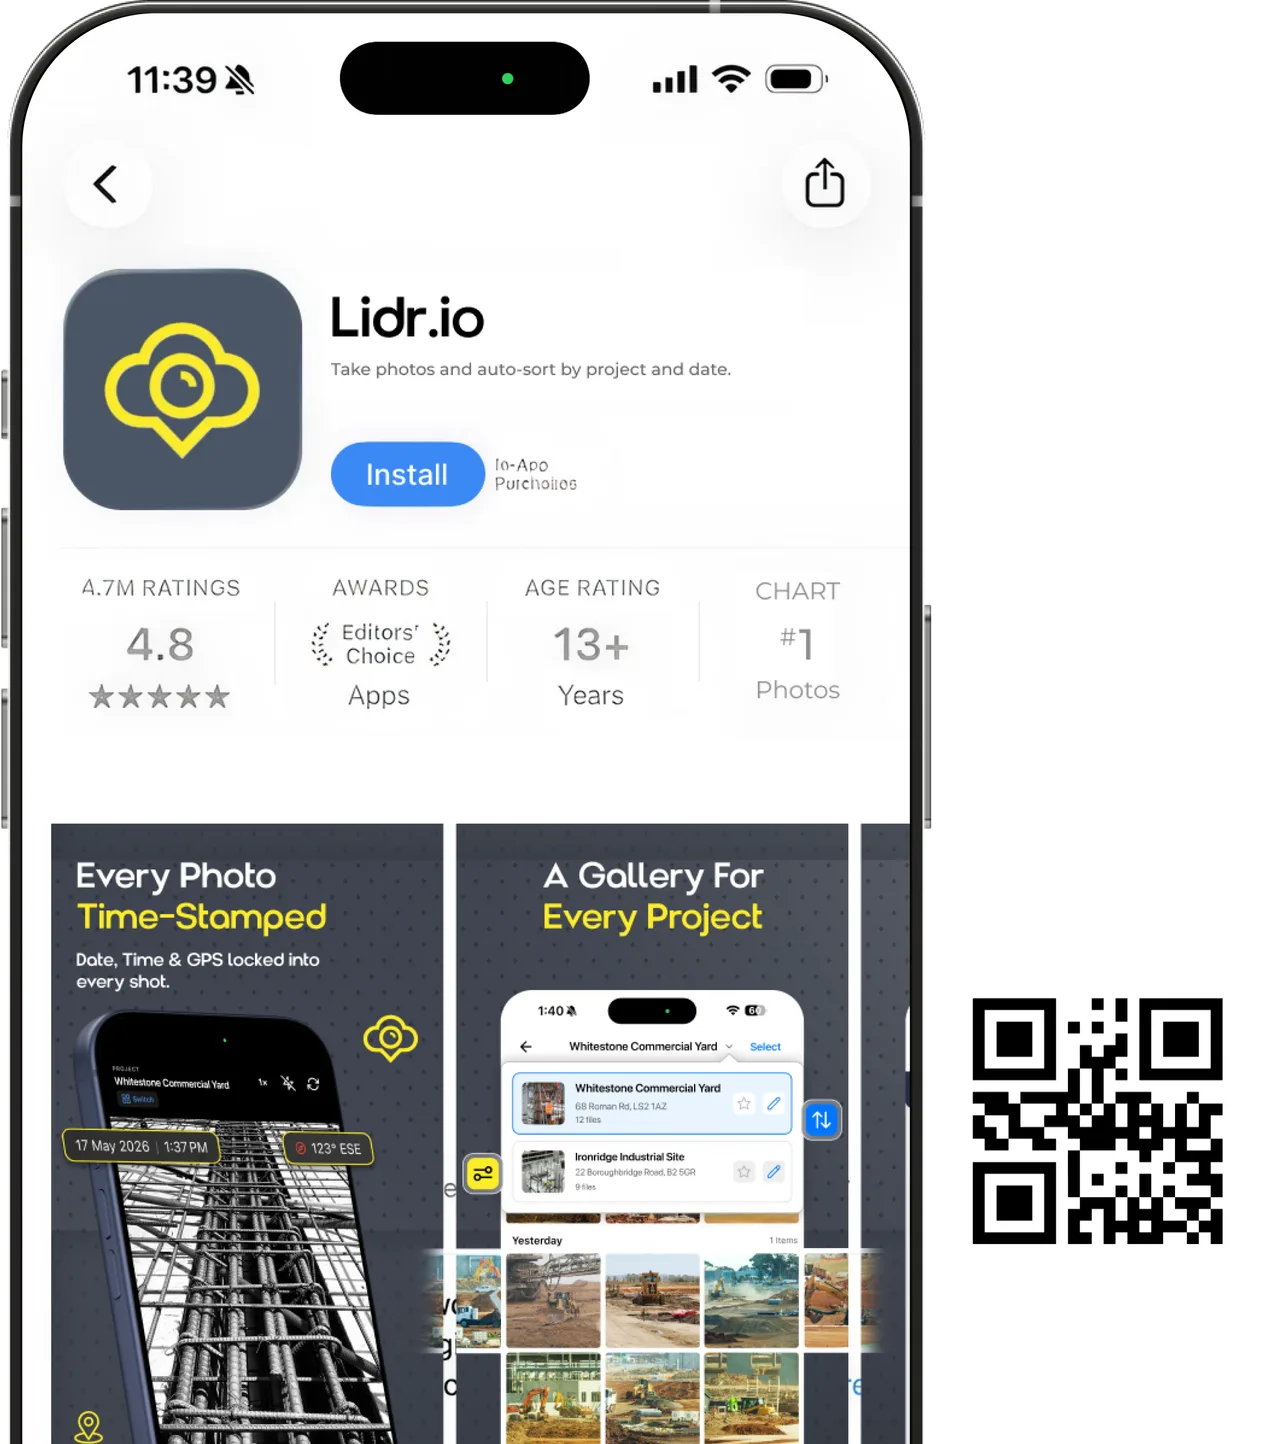
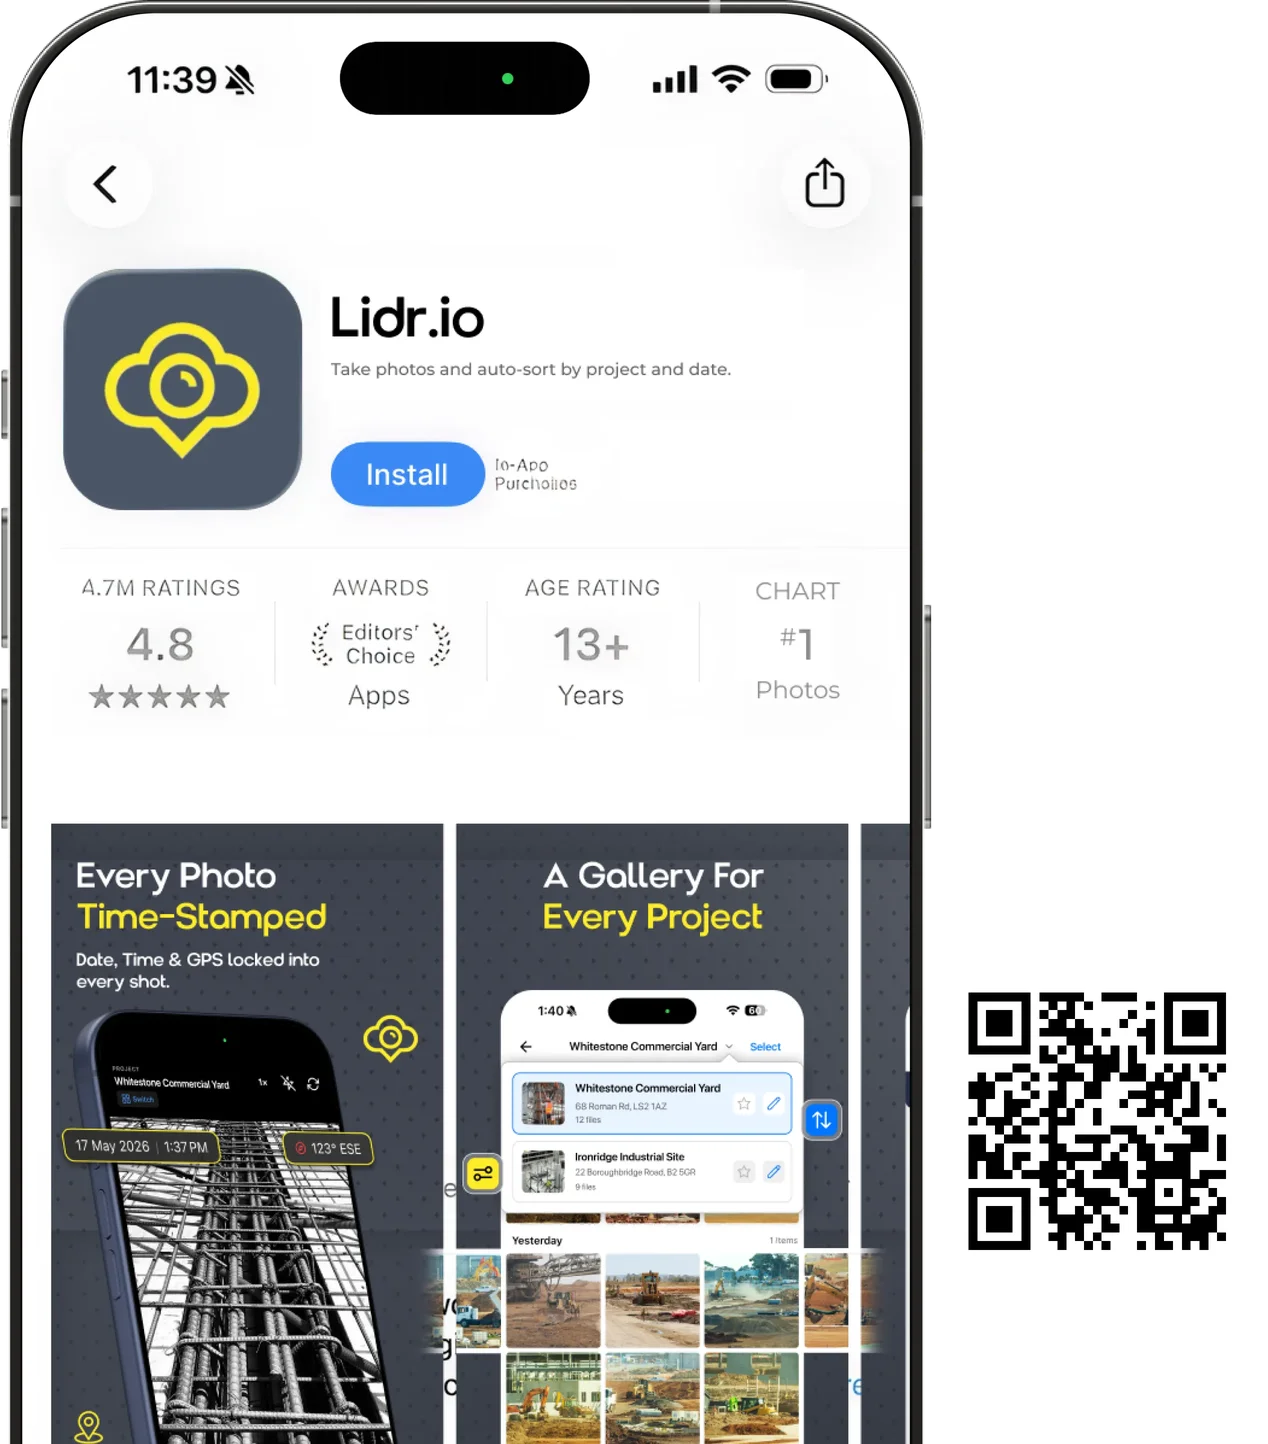
feat: smart download redirect + QR code pointing to lidr.io/download
Add /download page that detects iOS/Android via user agent and redirects
to the correct app store. Desktop visitors see a fallback landing with
both store badges. Replace the QR code in the hero image to encode
https://lidr.io/download so scanning opens the right store per device.

Changed region(s): [[0.7382, 0.6856, 0.9842, 0.8726]]

diff --git a/app/download/page.tsx b/app/download/page.tsx
@@ -1,0 +1,56 @@
+"use client";
+
+import { useEffect } from "react";
+
+const APP_STORE = "https://apps.apple.com/app/id6759912615";
+const PLAY_STORE =
+  "https://play.google.com/store/apps/details?id=io.lidr.app";
+
+export default function DownloadRedirect() {
+  useEffect(() => {
+    const ua = navigator.userAgent || "";
+    if (/iPhone|iPad|iPod/i.test(ua)) {
+      window.location.replace(APP_STORE);
+    } else if (/Android/i.test(ua)) {
+      window.location.replace(PLAY_STORE);
+    }
+  }, []);
+
+  return (
+    <div
+      style={{
+        display: "flex",
+        flexDirection: "column",
+        alignItems: "center",
+        justifyContent: "center",
+        minHeight: "60vh",
+        padding: "40px 20px",
+        textAlign: "center",
+      }}
+    >
+      <h1 style={{ marginBottom: "24px" }}>Download Lidr.io</h1>
+      <p style={{ marginBottom: "32px", maxWidth: "480px" }}>
+        Choose your platform to get started with Lidr.io — construction photo
+        documentation made simple.
+      </p>
+      <div style={{ display: "flex", gap: "16px", flexWrap: "wrap", justifyContent: "center" }}>
+        <a href={APP_STORE}>
+          <img
+            src="/icons/Apple-Pay.svg"
+            alt="Download on the App Store"
+            width={179}
+            height={62}
+          />
+        </a>
+        <a href={PLAY_STORE}>
+          <img
+            src="/icons/Google-Pay.svg"
+            alt="Get it on Google Play"
+            width={208}
+            height={62}
+          />
+        </a>
+      </div>
+    </div>
+  );
+}
